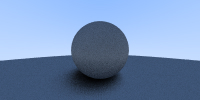
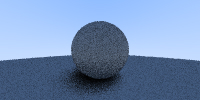
20

diff --git a/Ray-tracing-in-a-weekend/source.cpp b/Ray-tracing-in-a-weekend/source.cpp
@@ -31,7 +31,7 @@ vec3 color(const ray& r,hitable *world) {
 int main() {
 	int x = 200;
 	int y = 100;
-	int s = 100;
+	int s = 10;
 	hitable *list[2];
 	list[0] = new sphere(vec3(0, 0, -1), 0.5f);
 	list[1] = new sphere(vec3(0, -100.5f, -1), 100);
